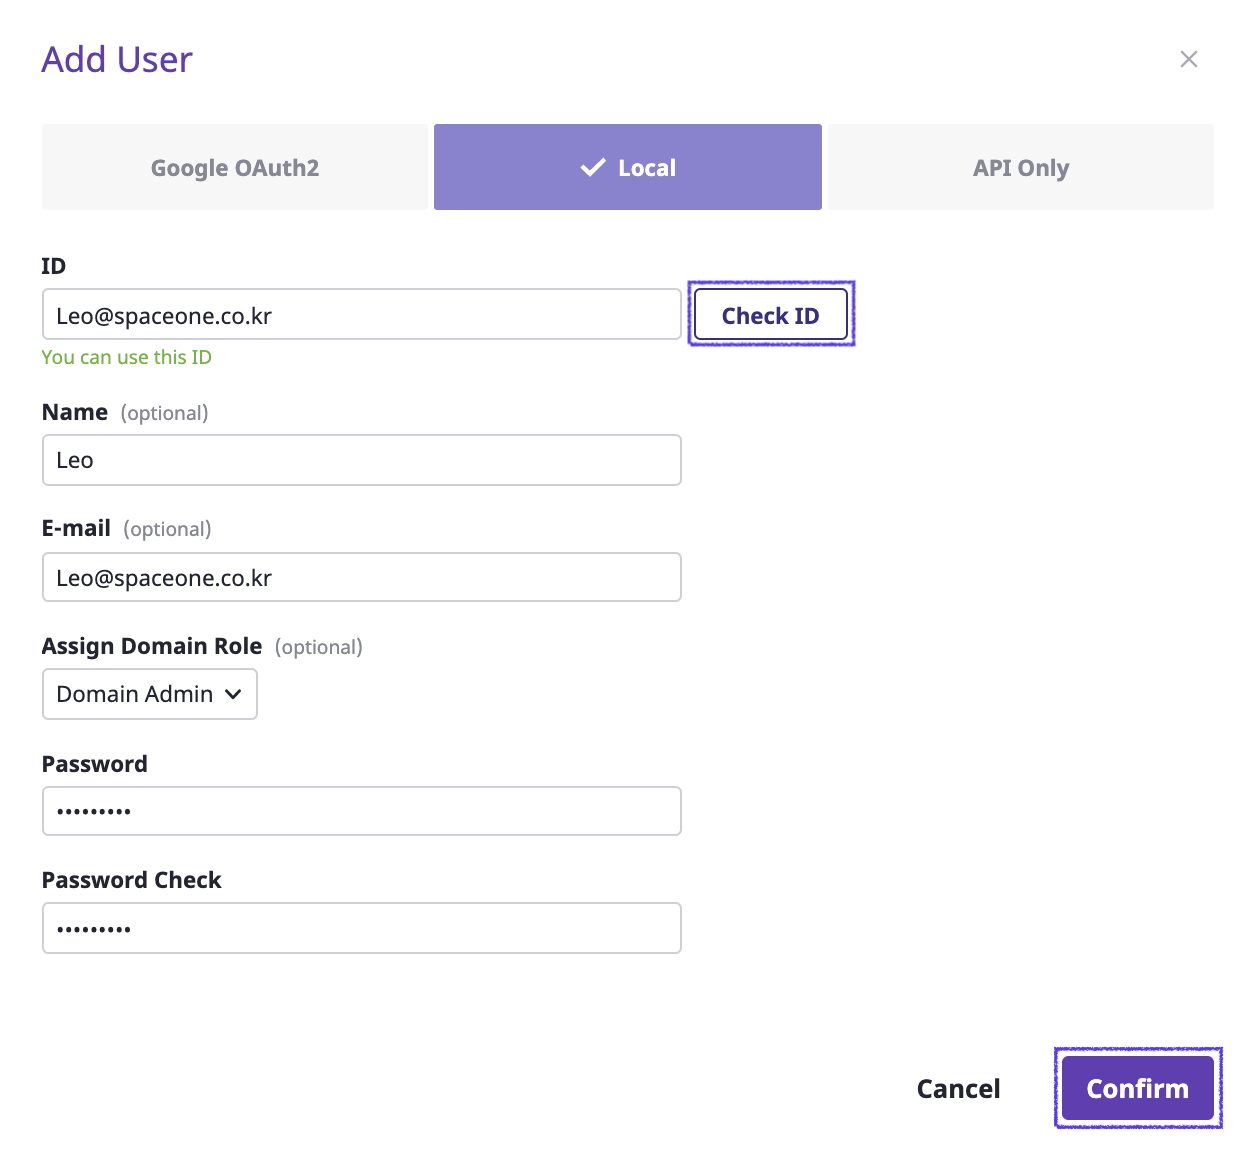
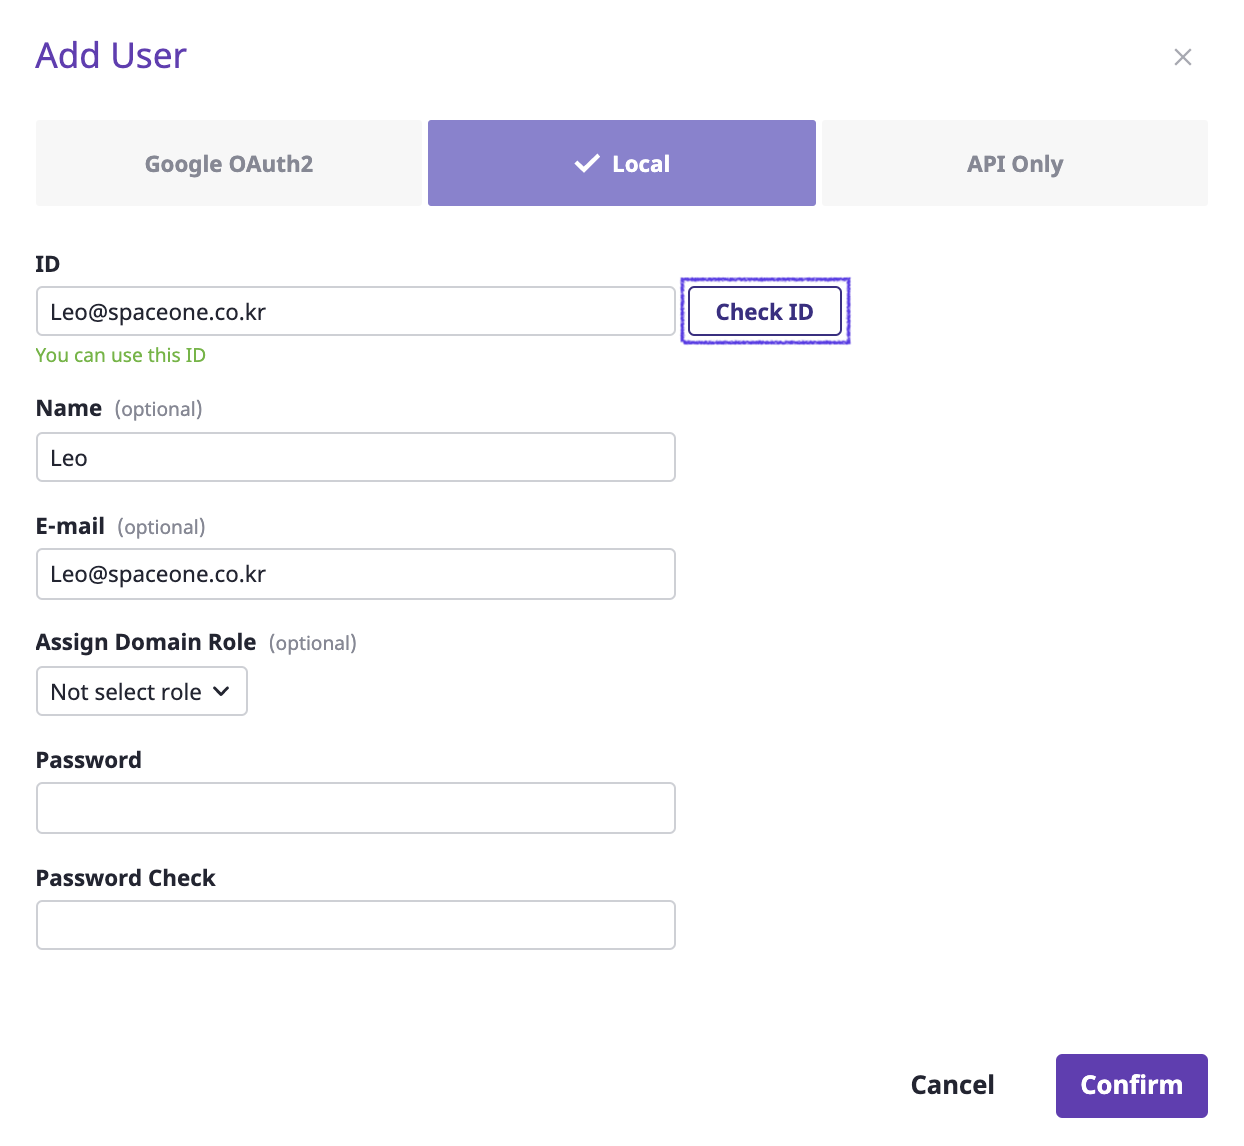
[Admin Guide] Identity - User Review

diff --git a/content/en/docs/using_spaceone_console/admin_guide/identity/user.md b/content/en/docs/using_spaceone_console/admin_guide/identity/user.md
@@ -19,15 +19,26 @@ You can add, modify, delete, and enable/disable users on the _**User Management*
 
 ## Create Users
 
-Click the _**+ Add**_ button, then create a _**Domain User**_. 
+Click the _**+ Add button**_. 
 
 ![](/docs/using_spaceone_console/admin_guide/identity/user_img/user_img_02.png)
 
 Enter your user ID, then click the _**Check ID**_ button to check availability.
 
+![](/docs/using_spaceone_console/admin_guide/identity/user_img/user_img_03.png)
+
+
+### Assign Domain Role
+
+If you select **Domain Admin**, you can get full access to the SpaceONE domain.
+
+For more information on user roles, refer to the following link: [User Role](/docs/using_spaceone_console/advanced_topics/user-role).
+![](/docs/using_spaceone_console/admin_guide/identity/user_img/user_img_04.png)
+
+
 Fill in the items required, then click the _**Confirm**_ button.
 
-![](/docs/using_spaceone_console/admin_guide/identity/user_img/user_img_03.png)
+![](/docs/using_spaceone_console/admin_guide/identity/user_img/user_img_05.png)
 
 Created users can be seen after reloading the page \(or clicking the reload button\).
 
@@ -35,15 +46,15 @@ Created users can be seen after reloading the page \(or clicking the reload butt
 
 Select the target user. On the dropdown _**Action**_ menu, editing/deleting options are available.
 
-![](/docs/using_spaceone_console/admin_guide/identity/user_img/user_img_04.png)
+![](/docs/using_spaceone_console/admin_guide/identity/user_img/user_img_06.png)
 
 If you click the update option, the user modification screen will pop up as shown below. To apply modifications you have made, click the _**Confirm**_ button.
 
-![](/docs/using_spaceone_console/admin_guide/identity/user_img/user_img_05.png)
+![](/docs/using_spaceone_console/admin_guide/identity/user_img/user_img_07.png)
 
 If you click the delete option, the delete confirmation screen will pop up as shown below. Process with the _**Confirm**_ button.
 
-![](/docs/using_spaceone_console/admin_guide/identity/user_img/user_img_06.png)
+![](/docs/using_spaceone_console/admin_guide/identity/user_img/user_img_08.png)
 
 ## Enable/Disable Users
 
@@ -52,23 +63,23 @@ To control user login, use the _**Enable/Disable**_ options.
 * Enable : Users are allowed to log into the SpaceONE console.
 * Disable : Users are NOT allowed to log into the SpaceONE console. 
 
-![](/docs/using_spaceone_console/admin_guide/identity/user_img/user_img_07.png)
-
-![](/docs/using_spaceone_console/admin_guide/identity/user_img/user_img_08.png)
-
 ![](/docs/using_spaceone_console/admin_guide/identity/user_img/user_img_09.png)
+
+![](/docs/using_spaceone_console/admin_guide/identity/user_img/user_img_10.png)
+
+![](/docs/using_spaceone_console/admin_guide/identity/user_img/user_img_11.png)
 
 ## User Details
 
 The detail tab shows detailed information on users, including ID, name, e-mail, state, language, etc.
 
-![](/docs/using_spaceone_console/admin_guide/identity/user_img/user_img_10.png)
+![](/docs/using_spaceone_console/admin_guide/identity/user_img/user_img_12.png)
 
 ## Search Users
 
 Users can be searched by several properties in the searching bar.
 
-![](/docs/using_spaceone_console/admin_guide/identity/user_img/user_img_11.png)
+![](/docs/using_spaceone_console/admin_guide/identity/user_img/user_img_13.png)
 
 
 

diff --git a/content/en/docs/using_spaceone_console/admin_guide/getting-started/root-account.md b/content/en/docs/using_spaceone_console/admin_guide/getting-started/root-account.md
@@ -31,7 +31,7 @@ description: >
 
 ## Create Domain Admin
 
-**Root Account** allows you to create a **`Domain Admin`** administrator user, and gives you a **`Domain Admin Role`** so that you can access as an administrator.
+**Root Account** allows you to create a **`Domain Admin`** user, and gives you a **`Domain Admin Role`** so that you can access as a domain administrator.
 {{% pageinfo color=“300” %}}
 **STEP 1: Click `Identity` - `User` in the top navigation bar.** 
 {{% /pageinfo %}}
@@ -47,13 +47,13 @@ description: >
 
 ![](/docs/using_spaceone_console/admin_guide/getting-started/root-account_img/root-account_img_05.png)
 {{% pageinfo color=“300” %}}
-**STEP 3: After filling out the `Domain Admin` user information, click the `Confirm` button to save.**
+**STEP 3: Fill out `Domain Admin` user information, then click the `Confirm` button to save.**
 {{% /pageinfo %}}
 <!-- **STEP 3: `Domain Admin` 사용자 정보를 추가한 후,`Confirm` 버튼을 눌러 저장합니다.**  -->
 
 ![](/docs/using_spaceone_console/admin_guide/getting-started/root-account_img/root-account_img_06.png)
 {{% pageinfo color=“300” %}}
-**STEP 4: You can see the details of the `Domain Admin user` on the `User Management` page.**
+**STEP 4: You can see the details of the `Domain Admin` user on the `User Management` page.**
 {{% /pageinfo %}}
 <!-- **STEP 4: 상단의`Identity` - `User` 에서  적용된 내용을 확인할 수 있습니다.** -->
 ![](/docs/using_spaceone_console/admin_guide/getting-started/root-account_img/root-account_img_07.png)

diff --git a/content/en/docs/using_spaceone_console/admin_guide/identity/oauth-plugin-requirements.md b/content/en/docs/using_spaceone_console/admin_guide/identity/oauth-plugin-requirements.md
@@ -14,8 +14,8 @@ description: >
 
 For companies using **Google Workspace**, `SpaceONE's OAuth plug-in` helps simplify the user sign-in process. To explore `SpaceONE's OAuth plug-in`, you need to complete the following steps in advance.
 
-* [Create OAuth Client ID](oauth-plugin-requirements.md#create-oauth-client-id)
-* [Domain Verification](oauth-plugin-requirements.md#domain-verification)
+* [Create OAuth Client ID](#create-oauth-client-id)
+* [Domain Verification](#domain-verification)
 
 ## Create OAuth Client ID
 
